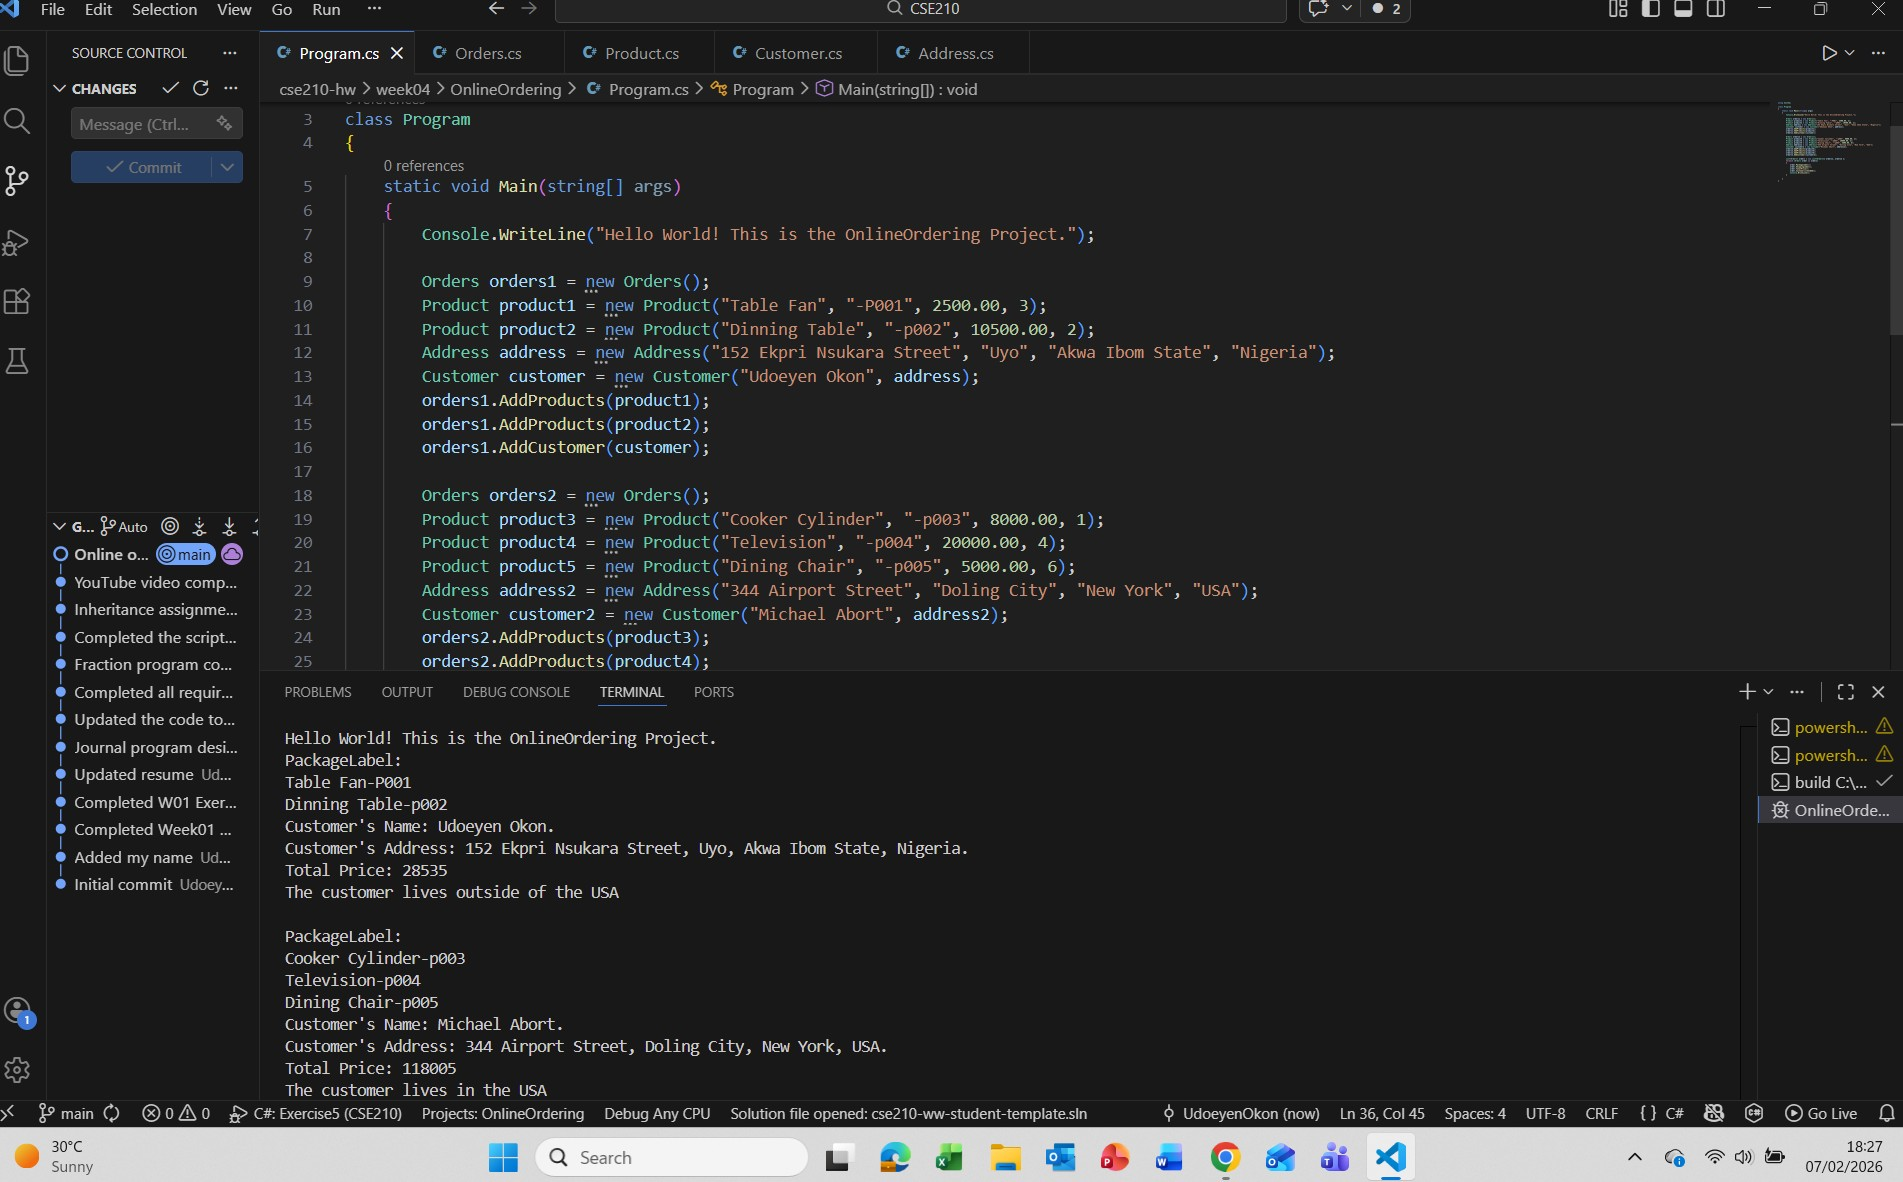
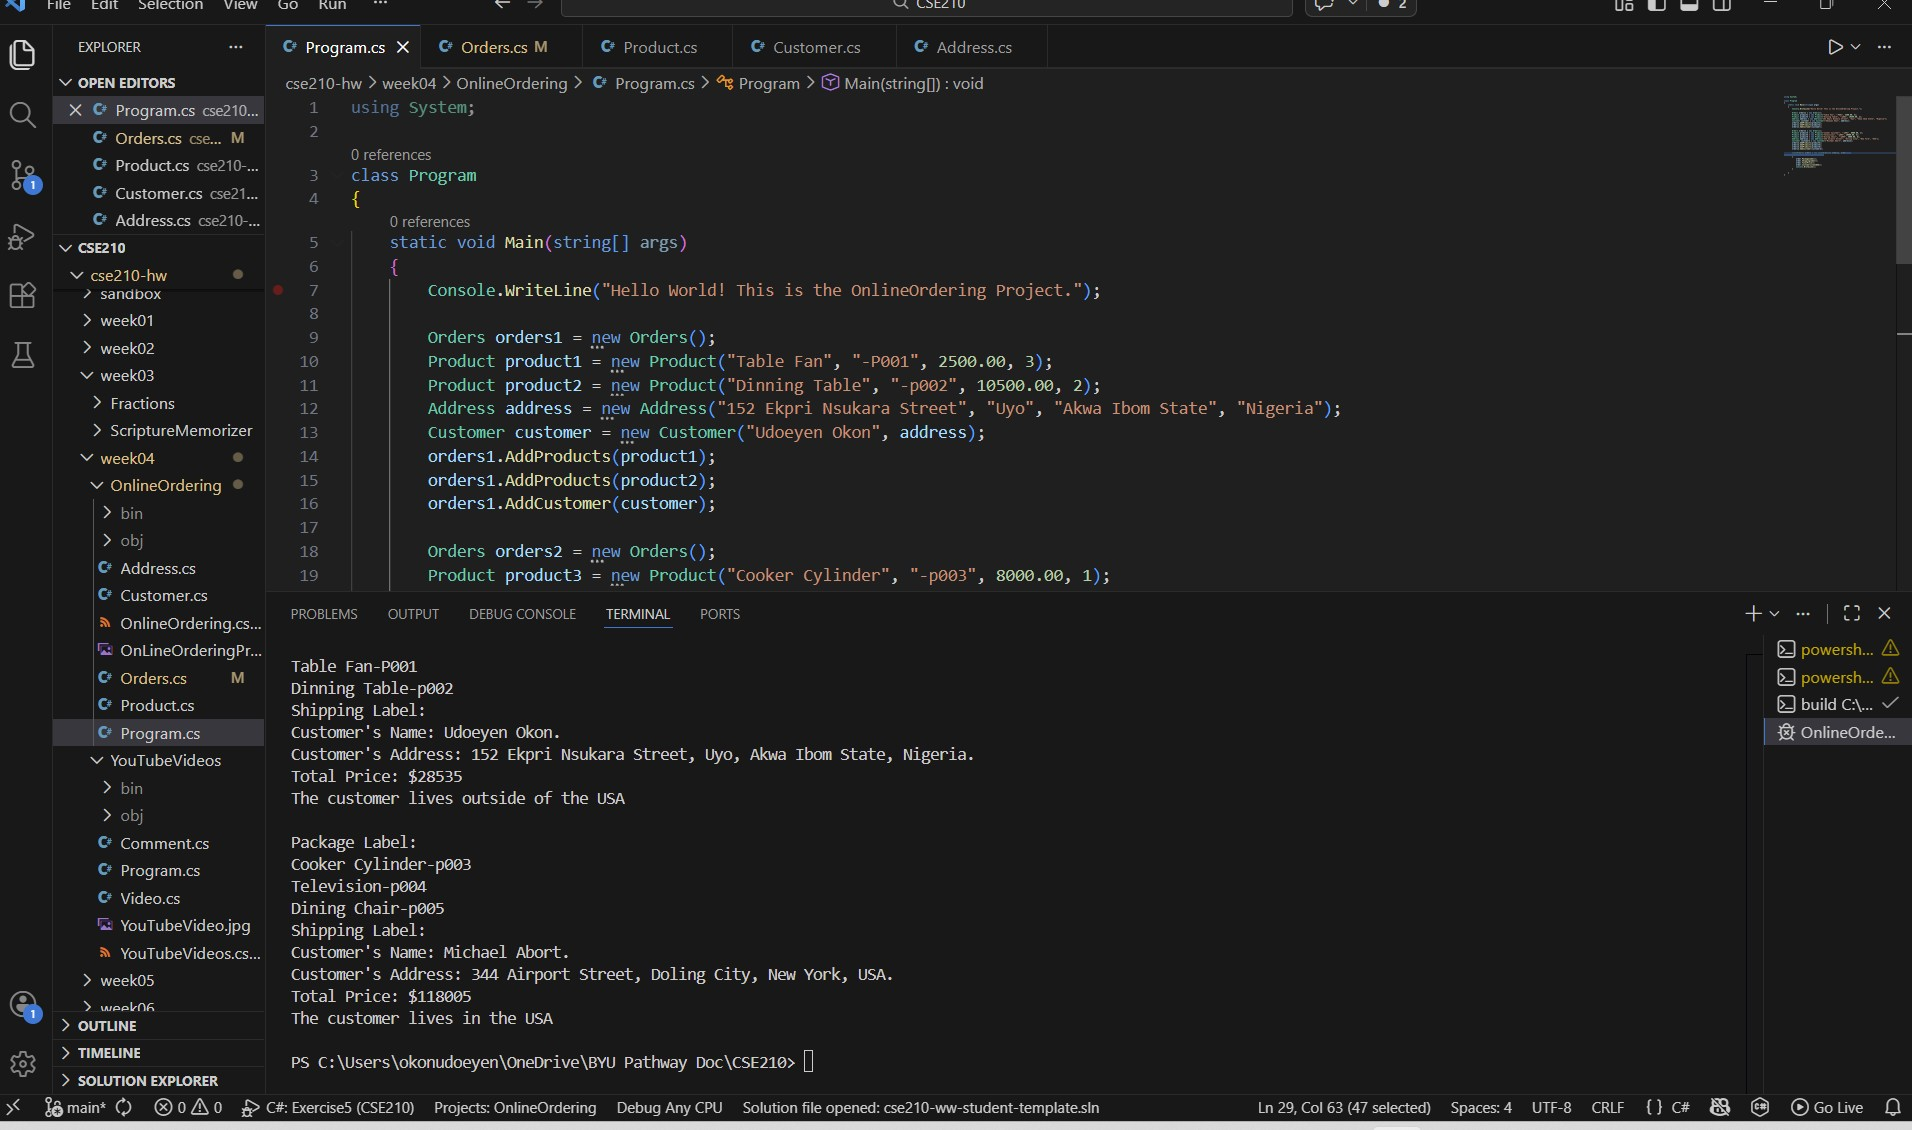
Online ordering program updated

diff --git a/week04/OnlineOrdering/Orders.cs b/week04/OnlineOrdering/Orders.cs
@@ -26,12 +26,12 @@ public class Orders
             }
         }
         totalPrice += shippingCost;
-        Console.WriteLine($"Total Price: {totalPrice}");
+        Console.WriteLine($"Total Price: ${totalPrice}");
         }
 
         public void PackageLabel()
         {
-        Console.WriteLine("PackageLabel:");
+        Console.WriteLine("Package Label:");
         foreach (var product in _products)
             {
                 Console.Write(product.GetProductName()) ;
@@ -41,6 +41,7 @@ public class Orders
 
         public void ShippingLabel()
         {
+            Console.WriteLine("Shipping Label:");
             _customer.DisplayCustomerInfo();
             // Console.WriteLine("Shipping Label:");
             // foreach (var product in _products)
